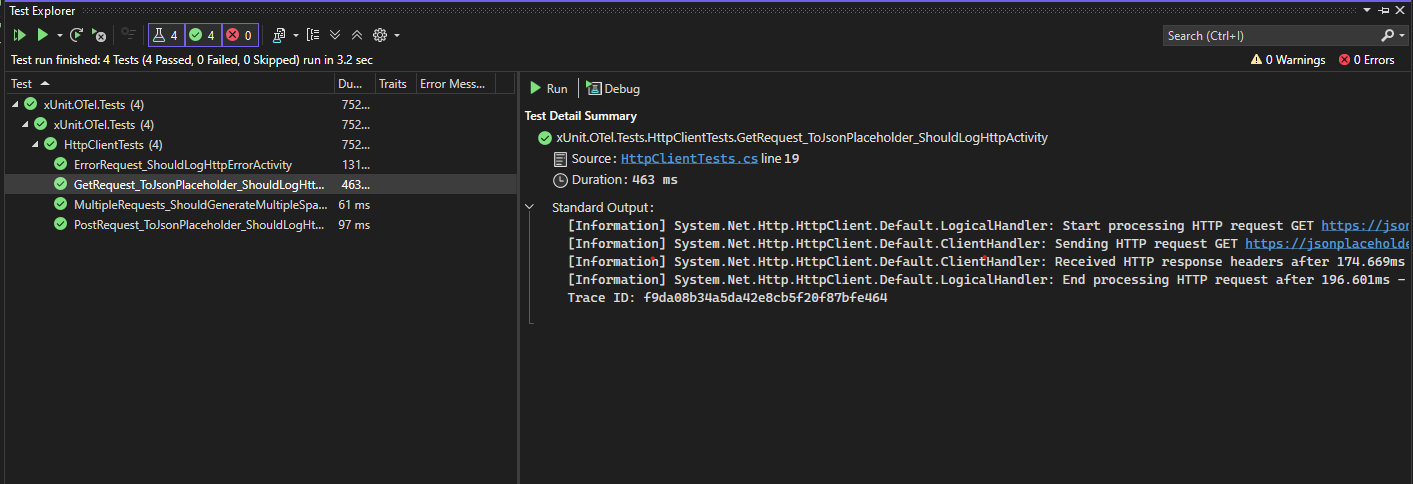
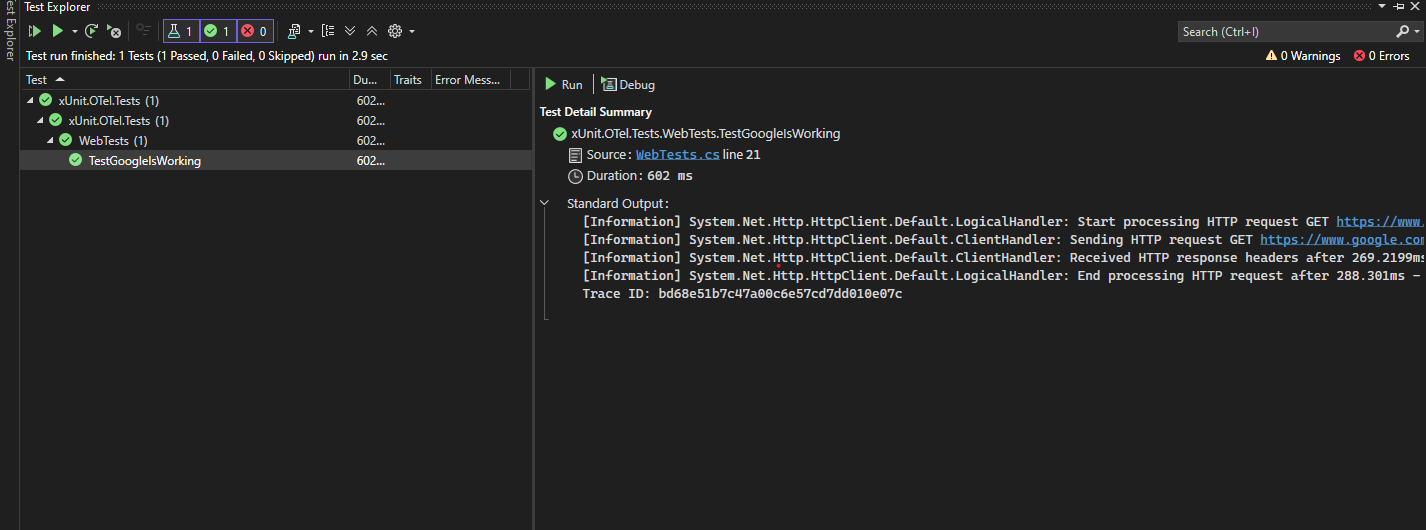
Refactor OpenTelemetry integration in tests: add WebTests class and remove HttpClientTests

Changed region(s): [[0.0, 0.0, 1.0, 1.0]]

diff --git a/tests/xUnit.OTel.Tests/WebTests.cs b/tests/xUnit.OTel.Tests/WebTests.cs
@@ -1,0 +1,32 @@
+using Microsoft.Extensions.DependencyInjection;
+
+
+// Define the namespace for test classes
+namespace xUnit.OTel.Tests;
+
+// Test class that uses the assembly fixture to demonstrate full OpenTelemetry integration
+// This class shows how to use dependency injection to get instrumented HTTP clients
+// All HTTP requests made through this client will be automatically traced
+public class WebTests
+{
+    private readonly HttpClient _httpClient;
+
+    public WebTests(TestSetup setup)
+    {
+        // Get the web caller from our setup
+        var factory = setup.Host.Services.GetRequiredService<IHttpClientFactory>();
+        _httpClient = factory.CreateClient();
+    }
+
+    [Fact]
+    public async Task TestGoogleIsWorking()
+    {
+        // This will show you:
+        // - When the call started
+        // - How long it took
+        // - If it worked or failed
+        var response = await _httpClient.GetAsync("https://www.google.com", TestContext.Current.CancellationToken);
+
+        Assert.True(response.IsSuccessStatusCode);
+    }
+}

diff --git a/README.md b/README.md
@@ -56,6 +56,10 @@ Want to track every single test without adding `[Trace]` to each one? Here's the
 ```csharp
 using Microsoft.Extensions.DependencyInjection;
 using Microsoft.Extensions.Hosting;
+using Microsoft.Extensions.Logging;
+using OpenTelemetry.Logs;
+using OpenTelemetry.Metrics;
+using OpenTelemetry.Trace;
 using xUnit.OTel.Diagnostics;
 using xUnit.OTel.Attributes;
 using Xunit;
@@ -66,27 +70,50 @@ using Xunit;
 // You still need the setup
 [assembly: AssemblyFixture(typeof(TestSetup))]
 
+// Define the namespace for test infrastructure
+namespace xUnit.OTel.Tests;
+
+// Test fixture class that sets up OpenTelemetry diagnostics for the entire test assembly
 public class TestSetup : IAsyncLifetime
 {
-    public IHost Host { get; private set; }
+    private IHost _host = null!;
+
+    public IHost Host => _host;
+
+    public T GetRequiredService<T>() where T : notnull
+    {
+        return _host.Services.GetRequiredService<T>();
+    }
 
     public async ValueTask InitializeAsync()
     {
-        Host = Microsoft.Extensions.Hosting.Host.CreateDefaultBuilder()
-            .ConfigureServices(services =>
-            {
-                // Required for tracing to work
-                services.AddOTelDiagnostics();
-            })
-            .Build();
-        
-        await Host.StartAsync();
+        // Create a lightweight application builder without full hosting overhead
+        var builder = Microsoft.Extensions.Hosting.Host.CreateApplicationBuilder();
+
+        // Configure the dependency injection container with required services
+        builder.Services.AddOTelDiagnostics(
+            configureMeterProviderBuilder: m => m.AddOtlpExporter(),
+            configureTracerProviderBuilder: t => t.AddOtlpExporter(),
+            configureLoggingBuilder: options => options.AddOpenTelemetry(o => o.AddOtlpExporter())
+        );
+
+        // Add HttpClient for testing HTTP instrumentation
+        builder.Services.AddHttpClient();
+
+        _host = builder.Build();
+        await _host.StartAsync();
+
+        var logger = _host.Services.GetRequiredService<ILogger<TestSetup>>();
+        logger.LogInformation("OpenTelemetry diagnostics configured with HTTP client instrumentation");
     }
 
     public async ValueTask DisposeAsync()
     {
-        await Host.StopAsync();
-        Host.Dispose();
+        var logger = _host.Services.GetRequiredService<ILogger<TestSetup>>();
+        logger.LogInformation("Test fixture disposing...");
+
+        await _host.StopAsync();
+        _host.Dispose();
     }
 }
 
@@ -108,13 +135,28 @@ public class MyTests
     }
 }
 
-public class MoreTests
+// Test class that demonstrates HTTP client instrumentation
+public class WebTests
 {
-    [Fact]
-    public async Task WebTest() // ✅ This one too!
+    private readonly HttpClient _httpClient;
+
+    public WebTests(TestSetup setup)
     {
-        await Task.Delay(100);
-        Assert.True(true);
+        // Get the web caller from our setup
+        var factory = setup.Host.Services.GetRequiredService<IHttpClientFactory>();
+        _httpClient = factory.CreateClient();
+    }
+
+    [Fact] // ✅ This one too!
+    public async Task TestGoogleIsWorking()
+    {
+        // This will show you:
+        // - When the call started
+        // - How long it took
+        // - If it worked or failed
+        var response = await _httpClient.GetAsync("https://www.google.com", TestContext.Current.CancellationToken);
+        
+        Assert.True(response.IsSuccessStatusCode);
     }
 }
 ```
@@ -131,6 +173,10 @@ If you want to trace only specific tests:
 ```csharp
 using Microsoft.Extensions.DependencyInjection;
 using Microsoft.Extensions.Hosting;
+using Microsoft.Extensions.Logging;
+using OpenTelemetry.Logs;
+using OpenTelemetry.Metrics;
+using OpenTelemetry.Trace;
 using xUnit.OTel.Diagnostics;
 using xUnit.OTel.Attributes;
 using Xunit;
@@ -138,27 +184,46 @@ using Xunit;
 // First, set up the tracking system (required!)
 [assembly: AssemblyFixture(typeof(TestSetup))]
 
+namespace xUnit.OTel.Tests;
+
 public class TestSetup : IAsyncLifetime
 {
-    public IHost Host { get; private set; }
+    private IHost _host = null!;
+
+    public IHost Host => _host;
+
+    public T GetRequiredService<T>() where T : notnull
+    {
+        return _host.Services.GetRequiredService<T>();
+    }
 
     public async ValueTask InitializeAsync()
     {
-        Host = Microsoft.Extensions.Hosting.Host.CreateDefaultBuilder()
-            .ConfigureServices(services =>
-            {
-                // This is required for [Trace] to work! 🎯
-                services.AddOTelDiagnostics();
-            })
-            .Build();
-        
-        await Host.StartAsync();
+        var builder = Microsoft.Extensions.Hosting.Host.CreateApplicationBuilder();
+
+        // This is required for [Trace] to work! 🎯
+        builder.Services.AddOTelDiagnostics(
+            configureMeterProviderBuilder: m => m.AddOtlpExporter(),
+            configureTracerProviderBuilder: t => t.AddOtlpExporter(),
+            configureLoggingBuilder: options => options.AddOpenTelemetry(o => o.AddOtlpExporter())
+        );
+
+        builder.Services.AddHttpClient();
+
+        _host = builder.Build();
+        await _host.StartAsync();
+
+        var logger = _host.Services.GetRequiredService<ILogger<TestSetup>>();
+        logger.LogInformation("OpenTelemetry diagnostics configured with HTTP client instrumentation");
     }
 
     public async ValueTask DisposeAsync()
     {
-        await Host.StopAsync();
-        Host.Dispose();
+        var logger = _host.Services.GetRequiredService<ILogger<TestSetup>>();
+        logger.LogInformation("Test fixture disposing...");
+
+        await _host.StopAsync();
+        _host.Dispose();
     }
 }
 
@@ -192,6 +257,10 @@ Want to see what happens when your code talks to the internet?
 ```csharp
 using Microsoft.Extensions.DependencyInjection;
 using Microsoft.Extensions.Hosting;
+using Microsoft.Extensions.Logging;
+using OpenTelemetry.Logs;
+using OpenTelemetry.Metrics;
+using OpenTelemetry.Trace;
 using xUnit.OTel.Diagnostics;
 using xUnit.OTel.Attributes;
 using Xunit;
@@ -200,35 +269,52 @@ using Xunit;
 [assembly: Trace]
 [assembly: AssemblyFixture(typeof(TestSetup))]
 
+namespace xUnit.OTel.Tests;
+
 public class TestSetup : IAsyncLifetime
 {
-    public IHost Host { get; private set; }
+    private IHost _host = null!;
+
+    public IHost Host => _host;
+
+    public T GetRequiredService<T>() where T : notnull
+    {
+        return _host.Services.GetRequiredService<T>();
+    }
 
     public async ValueTask InitializeAsync()
     {
-        // Create a mini-application for testing
-        Host = Microsoft.Extensions.Hosting.Host.CreateDefaultBuilder()
-            .ConfigureServices(services =>
-            {
-                // Add the magic tracking ✨
-                services.AddOTelDiagnostics();
-                // Add ability to make web calls
-                services.AddHttpClient();
-            })
-            .Build();
-        
-        await Host.StartAsync();
+        // Create a lightweight application builder without full hosting overhead
+        var builder = Microsoft.Extensions.Hosting.Host.CreateApplicationBuilder();
+
+        // Configure the dependency injection container with required services
+        builder.Services.AddOTelDiagnostics(
+            configureMeterProviderBuilder: m => m.AddOtlpExporter(),
+            configureTracerProviderBuilder: t => t.AddOtlpExporter(),
+            configureLoggingBuilder: options => options.AddOpenTelemetry(o => o.AddOtlpExporter())
+        );
+
+        // Add HttpClient for testing HTTP instrumentation
+        builder.Services.AddHttpClient();
+
+        _host = builder.Build();
+        await _host.StartAsync();
+
+        var logger = _host.Services.GetRequiredService<ILogger<TestSetup>>();
+        logger.LogInformation("OpenTelemetry diagnostics configured with HTTP client instrumentation");
     }
 
     public async ValueTask DisposeAsync()
     {
-        // Clean up when done
-        await Host.StopAsync();
-        Host.Dispose();
+        var logger = _host.Services.GetRequiredService<ILogger<TestSetup>>();
+        logger.LogInformation("Test fixture disposing...");
+
+        await _host.StopAsync();
+        _host.Dispose();
     }
 }
 
-// Your actual tests
+// Test class that demonstrates full OpenTelemetry integration
 public class WebTests
 {
     private readonly HttpClient _httpClient;
@@ -247,7 +333,7 @@ public class WebTests
         // - When the call started
         // - How long it took
         // - If it worked or failed
-        var response = await _httpClient.GetAsync("https://www.google.com");
+        var response = await _httpClient.GetAsync("https://www.google.com", TestContext.Current.CancellationToken);
         
         Assert.True(response.IsSuccessStatusCode);
     }
@@ -318,9 +404,9 @@ services.AddOTelDiagnostics(
 );
 ```
 
-## � Viewing the Data of Tests
+## Viewing the Data of Tests
 
-The `xUnit.OTel` package contains a `hostBuilder` that, when configured with OTLP exporters, outputs span data via gRPC to `localhost:4317` by default. To visualize this telemetry data, you can use the **Aspire Dashboard** which provides a user-friendly interface for viewing traces, metrics, and logs.
+The `xUnit.OTel` package, when configured with OTLP exporters as shown in the example below, outputs span data via gRPC to `localhost:4317`. To visualize this telemetry data, you can use the **Aspire Dashboard** which provides a user-friendly interface for viewing traces, metrics, and logs.
 
 ### Using Aspire Dashboard with Docker
 
@@ -397,12 +483,17 @@ When you run a test with tracing enabled, you'll see:
 ## 🎨 Real-World Example: Testing a Weather Service
 
 ```csharp
+using Microsoft.Extensions.DependencyInjection;
+
+namespace xUnit.OTel.Tests;
+
 public class WeatherTests
 {
     private readonly HttpClient _httpClient;
 
     public WeatherTests(TestSetup setup)
     {
+        // Get the web caller from our setup
         var factory = setup.Host.Services.GetRequiredService<IHttpClientFactory>();
         _httpClient = factory.CreateClient();
     }
@@ -411,11 +502,11 @@ public class WeatherTests
     public async Task CheckTodaysWeather()
     {
         // Call 1: Get location
-        var locationResponse = await _httpClient.GetAsync("https://ipapi.co/json/");
+        var locationResponse = await _httpClient.GetAsync("https://ipapi.co/json/", TestContext.Current.CancellationToken);
         var location = await locationResponse.Content.ReadAsStringAsync();
         
         // Call 2: Get weather for that location
-        var weatherResponse = await _httpClient.GetAsync($"https://wttr.in/London?format=j1");
+        var weatherResponse = await _httpClient.GetAsync($"https://wttr.in/London?format=j1", TestContext.Current.CancellationToken);
         
         // The trace will show:
         // - Both HTTP calls
